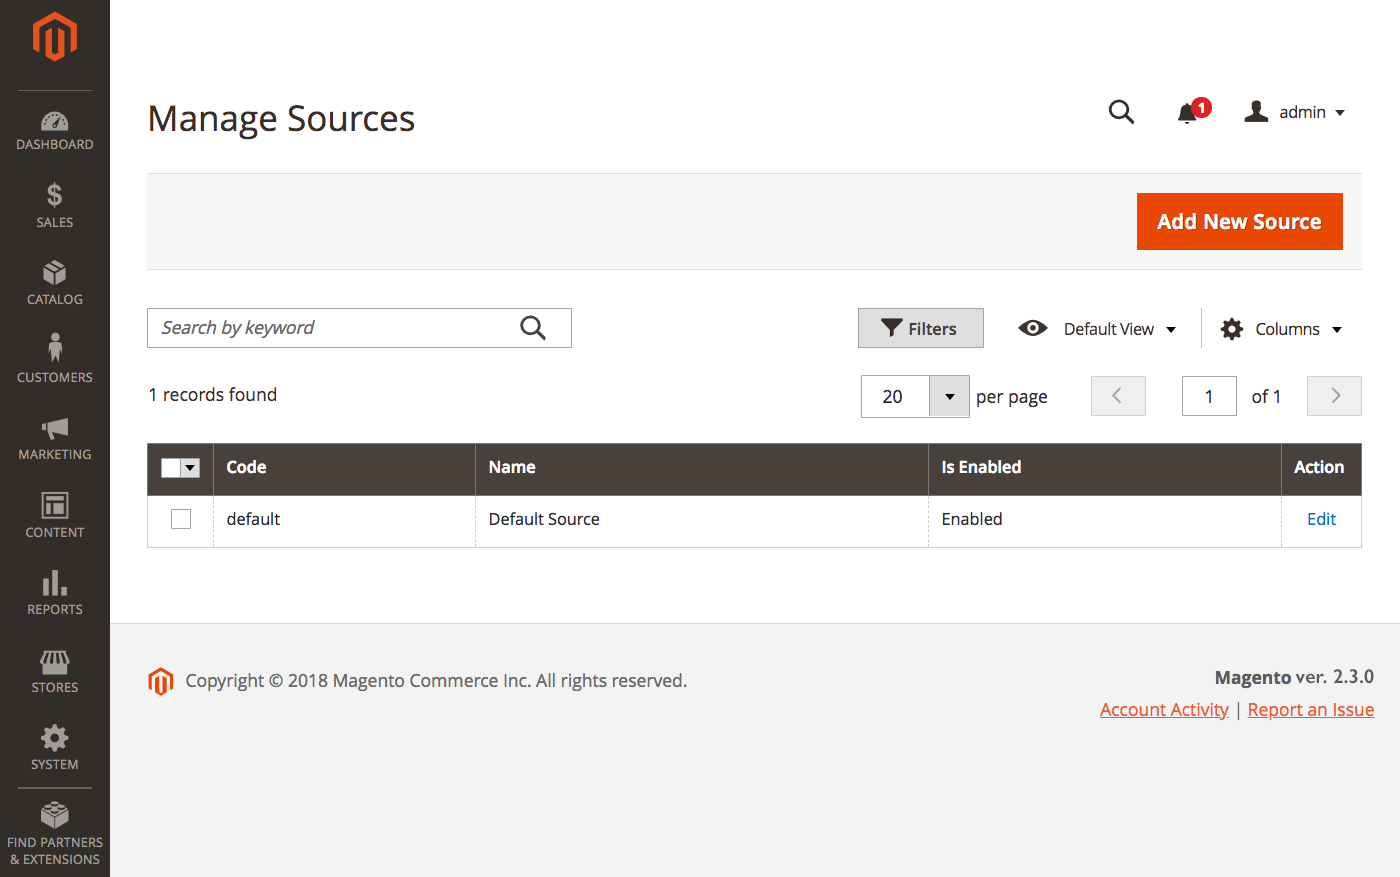
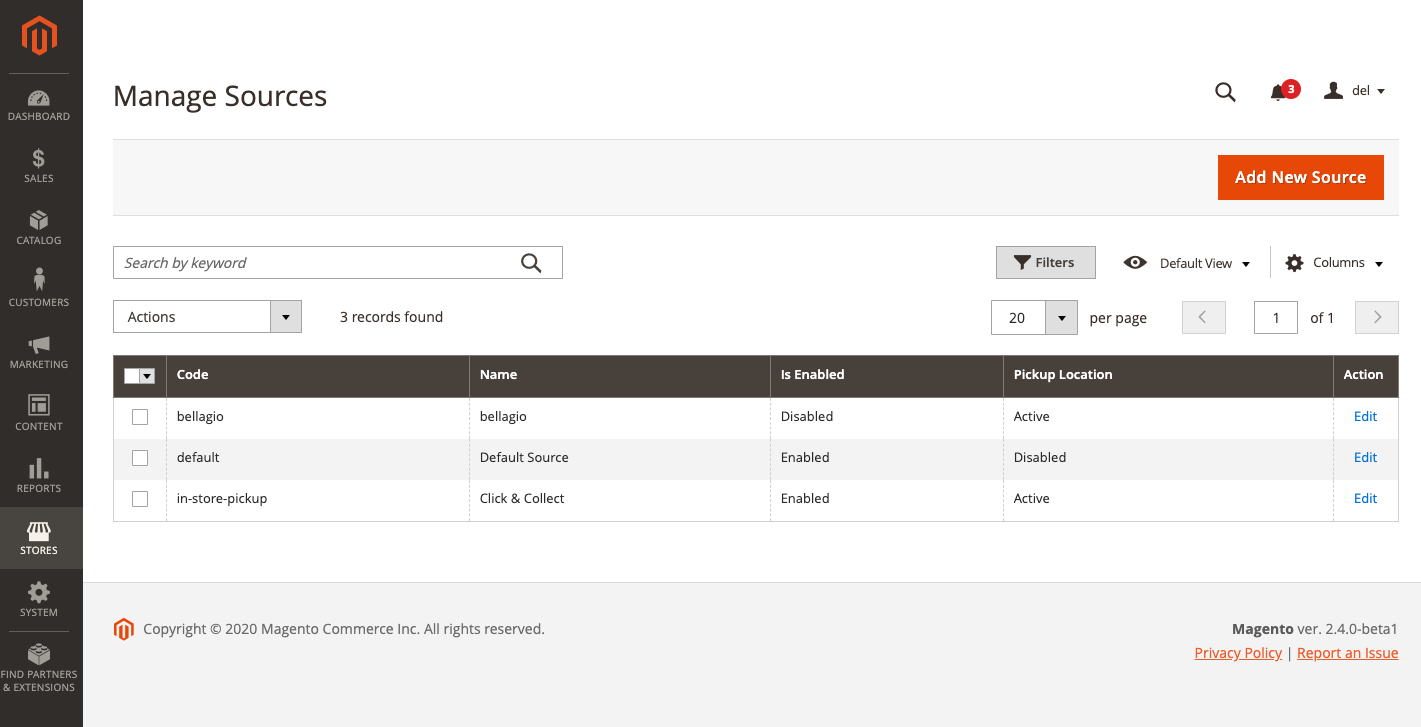
Replace manage sources image with updated and add new column to table

diff --git a/src/catalog/inventory-sources.md b/src/catalog/inventory-sources.md
@@ -57,4 +57,5 @@ The Manage Sources page lists all available inventory locations and fulfillment 
 |Code|A unique, alphanumeric code that is used by the system to identify the inventory source.|
 |Name|A unique name that identifies the  inventory source for Admin users.|
 |Is Enabled|Indicates if the inventory source is active and available to use.|
-|Action|**Edit** - Opens the inventory source record in edit mode.|
+|Pickup Location|Indicates if the source is active as a pickup location for [in-store delivery]({% link shipping/shipping-in-store-delivery.md %}).|
+|Action|Clicking **Edit** opens the inventory source record in edit mode.|
